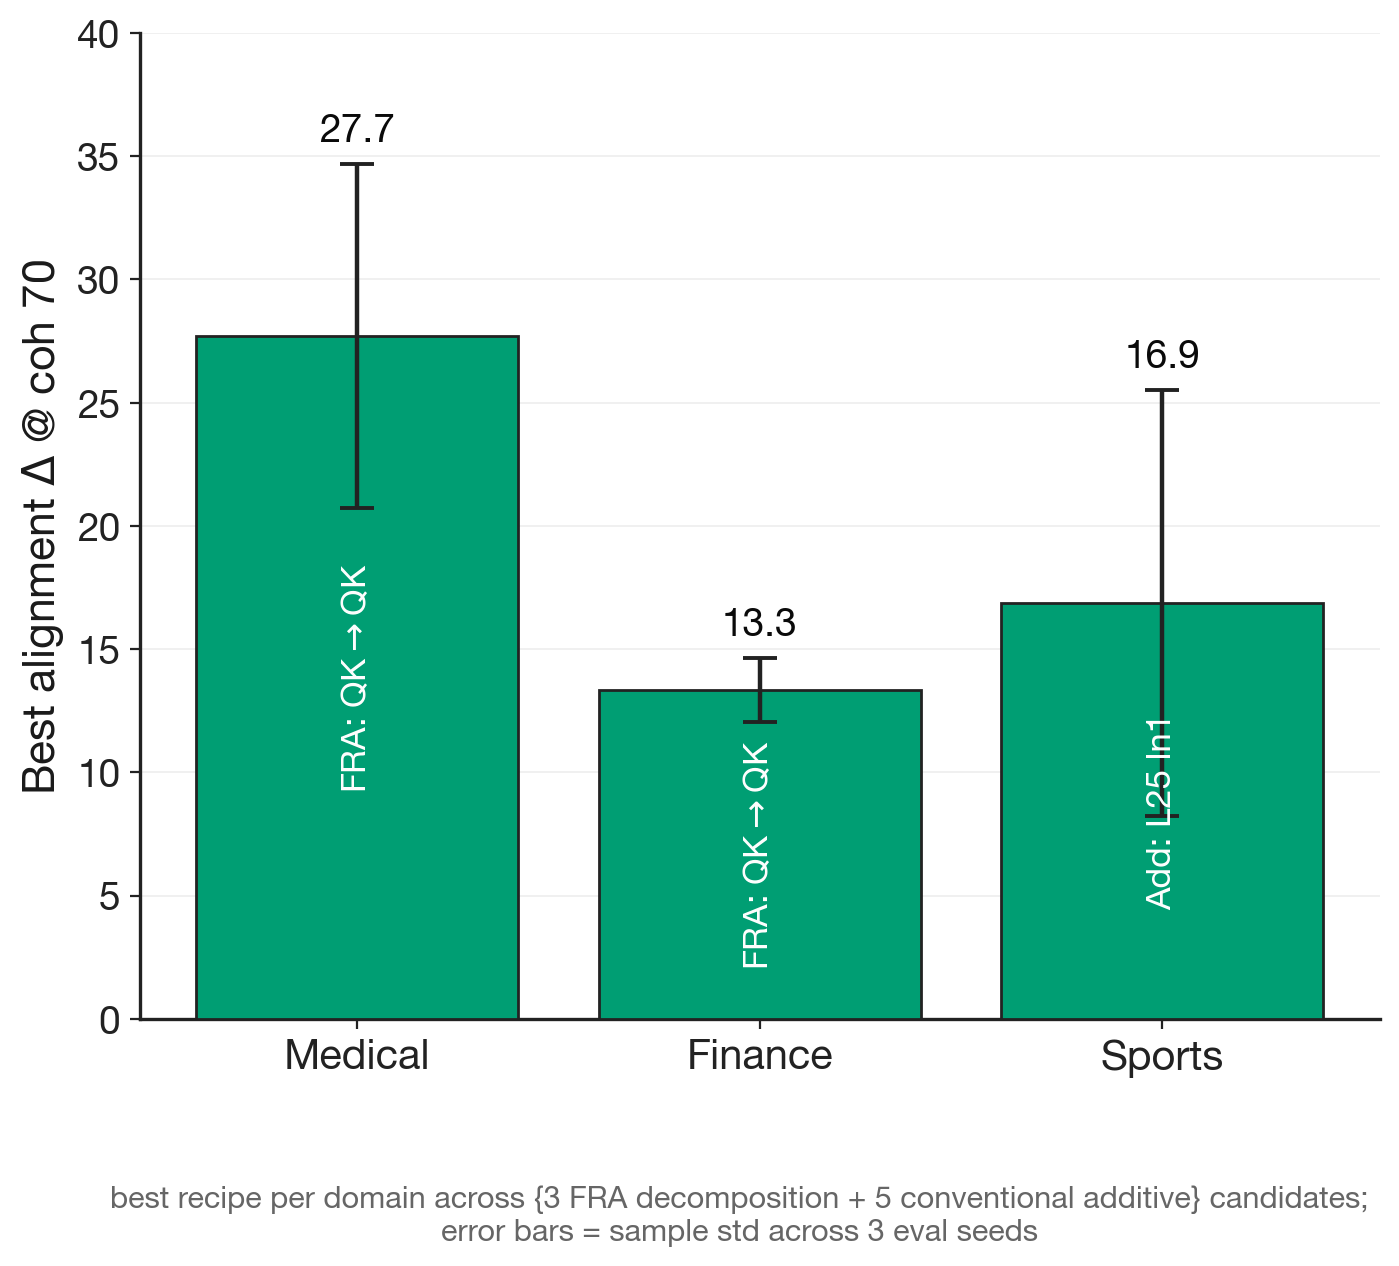
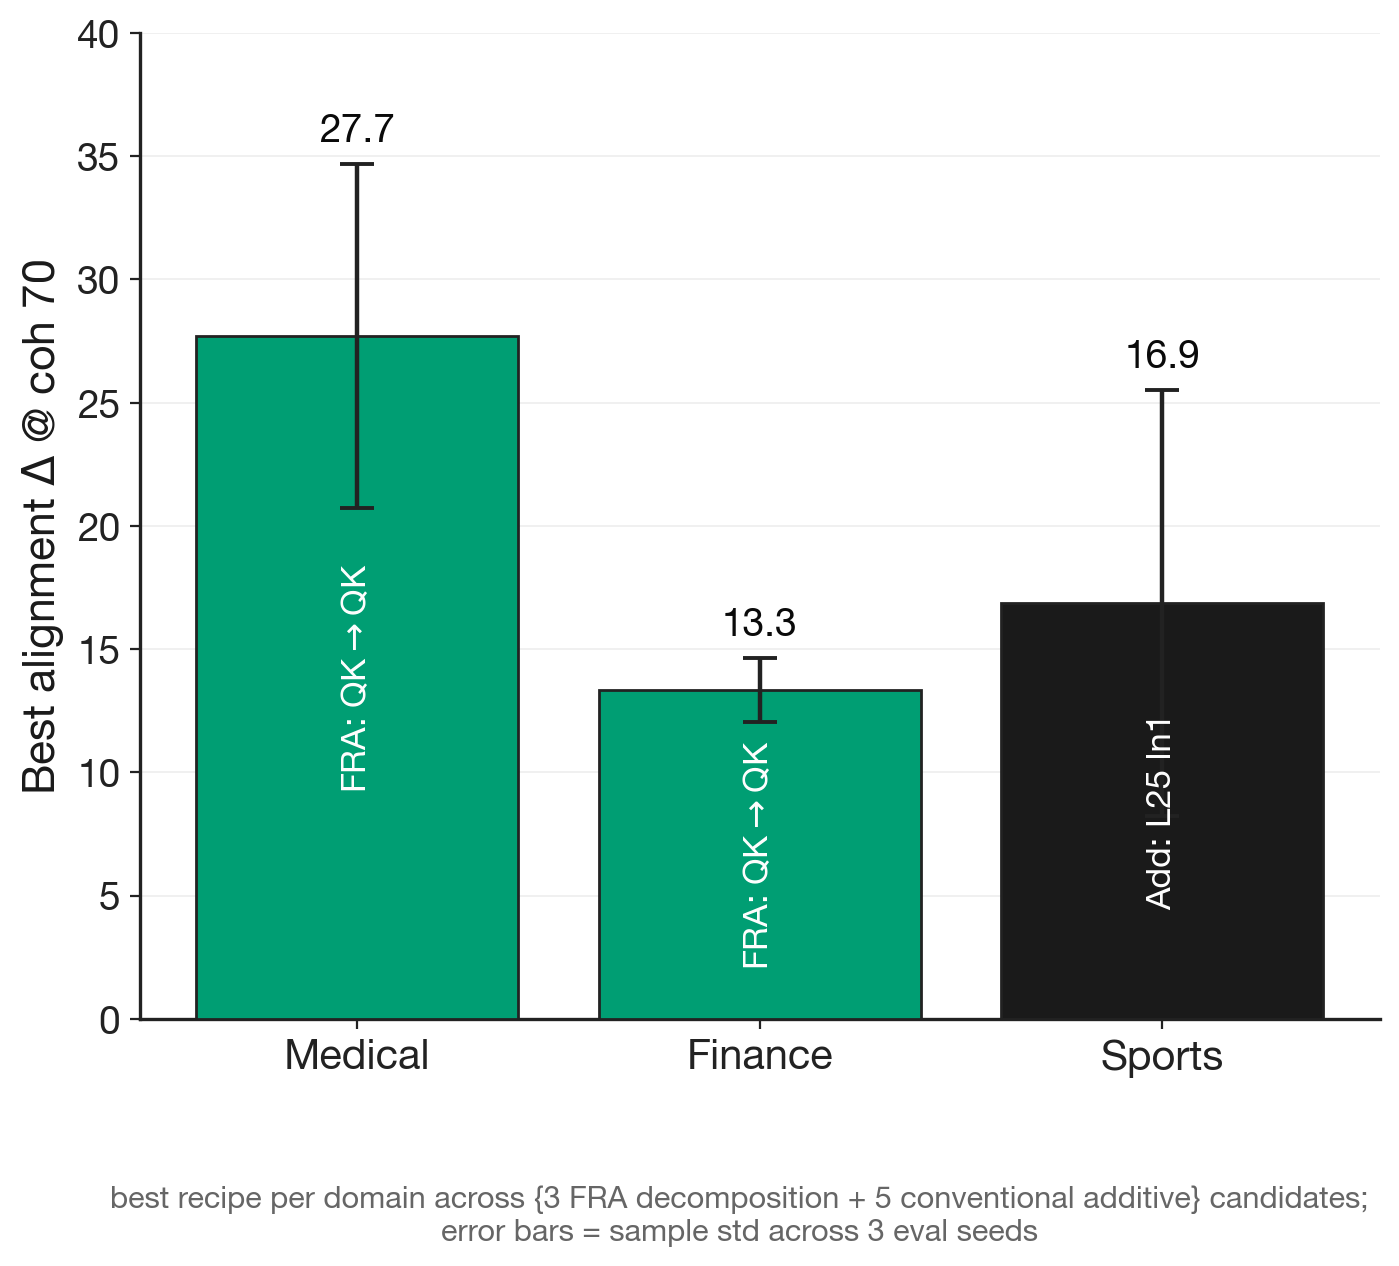
Apply paper colour scheme: green QK→QK / blue QK→OV / orange OV→OV / black conventional
Saved to memory: feedback_paper_color_scheme.md.

Changed region(s): [[0.7069, 0.4621, 0.9528, 0.8318]]

diff --git a/scripts/plot_phase1_headline_per_domain.py b/scripts/plot_phase1_headline_per_domain.py
@@ -17,6 +17,14 @@ import matplotlib.pyplot as plt
 
 SAES = ["L24_ln1_nura", "L24_resid_pre", "L24_resid_mid", "L24_resid_post", "L25_ln1"]
 
+# Paper colour scheme — must match plot_phase1_fra_plus_additive.py
+COLOR_BY_RECIPE = {
+    "qk_to_qk":     "#009E73",  # green  ← QK→QK
+    "qk_to_ov":     "#0072B2",  # blue   ← QK→OV
+    "ov_to_ov":     "#D55E00",  # orange ← OV→OV
+    "conventional": "#1a1a1a",  # black  ← conventional additive
+}
+
 
 def setup_style():
     mpl.rcParams.update({
@@ -43,8 +51,10 @@ def setup_style():
 
 
 def best_for_domain(root: Path, em: str):
-    """Return (method_label, mean, std, n) for the recipe with the largest
-    Δalign|coh≥70 in this domain."""
+    """Return (method_label, mean, std, n, color_key) for the recipe with the
+    largest Δalign|coh≥70 in this domain. color_key is one of the keys in
+    COLOR_BY_RECIPE so the plot can colour the bar by category.
+    """
     candidates = []
     # FRA recipes from gpt4o_combined_L24_ln1_nura_FRA_<em>.json
     fra = root / f"gpt4o_combined_L24_ln1_nura_FRA_{em}.json"
@@ -57,7 +67,7 @@ def best_for_domain(root: Path, em: str):
                 lbl = (f"FRA: QK{arrow}OV" if method == "qk_to_ov"
                        else f"FRA: OV{arrow}OV" if method == "ov_to_ov"
                        else f"FRA: QK{arrow}QK")
-                candidates.append((lbl, s["mean"] or 0.0, s["std"] or 0.0, s["n"]))
+                candidates.append((lbl, s["mean"] or 0.0, s["std"] or 0.0, s["n"], method))
     # Additive on each SAE
     for sae in SAES:
         p = root / f"gpt4o_combined_{sae}_{em}.json"
@@ -72,10 +82,10 @@ def best_for_domain(root: Path, em: str):
                     "L24_resid_post": "Add: L24 resid_post",
                     "L25_ln1":        "Add: L25 ln1",
                 }
-                candidates.append((lbl_map[sae], s["mean"] or 0.0, s["std"] or 0.0, s["n"]))
+                candidates.append((lbl_map[sae], s["mean"] or 0.0, s["std"] or 0.0, s["n"], "conventional"))
     valid = [c for c in candidates if c[3] > 0]
     if not valid:
-        return ("(none above floor)", 0.0, 0.0, 0)
+        return ("(none above floor)", 0.0, 0.0, 0, "conventional")
     return max(valid, key=lambda c: c[1])
 
 
@@ -92,15 +102,15 @@ def main():
 
     fig, ax = plt.subplots(figsize=(8.0, 6.4))
     x = np.arange(len(bests))
-    means = [b[2] for b in bests]
-    stds  = [b[3] for b in bests]
+    means         = [b[2] for b in bests]
+    stds          = [b[3] for b in bests]
     method_labels = [b[1] for b in bests]
+    color_keys    = [b[5] for b in bests]
     domain_labels = [em.capitalize() for em, *_ in bests]
 
-    # Single hero colour for the headline
-    color = "#009E73"
+    bar_colors = [COLOR_BY_RECIPE[k] for k in color_keys]
     bars = ax.bar(x, means, yerr=stds,
-                  color=color, edgecolor="#222222", linewidth=1.0,
+                  color=bar_colors, edgecolor="#222222", linewidth=1.0,
                   error_kw=dict(ecolor="#222222", capsize=6, capthick=1.4, lw=1.6),
                   zorder=3)
     for bar, m, s, mlabel in zip(bars, means, stds, method_labels):

diff --git a/scripts/plot_phase1_fra_plus_additive.py b/scripts/plot_phase1_fra_plus_additive.py
@@ -27,13 +27,15 @@ import matplotlib.pyplot as plt
 from matplotlib.patches import Patch
 
 
-# Three FRA recipes (always shown) + one "best conventional additive" bar
-# whose label is filled in per-domain (the winning SAE among the 5 additive
-# candidates). Keeps the figure compact: 4 bars per panel instead of 8+1.
+# Paper-consistent colour scheme:
+#   QK->QK : green   (#009E73 Wong bluish-green)
+#   QK->OV : blue    (#0072B2 Wong blue)
+#   OV->OV : orange  (#D55E00 Wong vermilion)
+#   conventional steering : near-black (#1a1a1a)
 FRA_COLUMNS = [
-    ("FRA:qk_to_ov", r"FRA: QK$\rightarrow$OV", "#009E73"),
-    ("FRA:ov_to_ov", r"FRA: OV$\rightarrow$OV", "#0072B2"),
-    ("FRA:qk_to_qk", r"FRA: QK$\rightarrow$QK", "#D55E00"),
+    ("FRA:qk_to_ov", r"FRA: QK$\rightarrow$OV", "#0072B2"),
+    ("FRA:ov_to_ov", r"FRA: OV$\rightarrow$OV", "#D55E00"),
+    ("FRA:qk_to_qk", r"FRA: QK$\rightarrow$QK", "#009E73"),
 ]
 ADDITIVE_SAES = [
     ("L24_ln1_nura",   "L24 ln1 (Nura)"),
@@ -42,7 +44,7 @@ ADDITIVE_SAES = [
     ("L24_resid_post", "L24 resid_post"),
     ("L25_ln1",        "L25 ln1"),
 ]
-ADDITIVE_COLOR = "#CC79A7"
+ADDITIVE_COLOR = "#1a1a1a"
 
 
 def setup_style():
